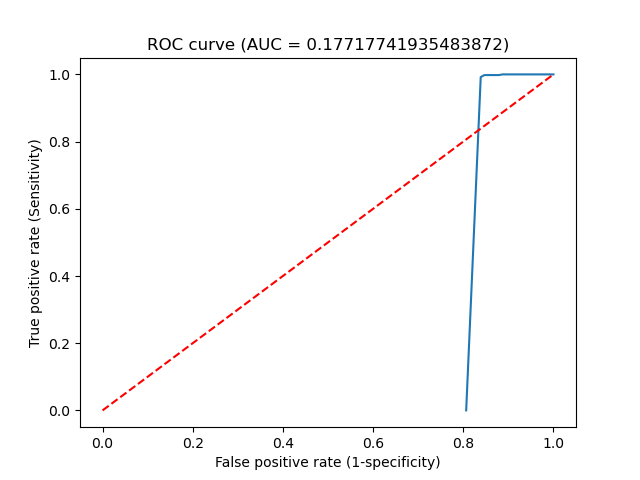
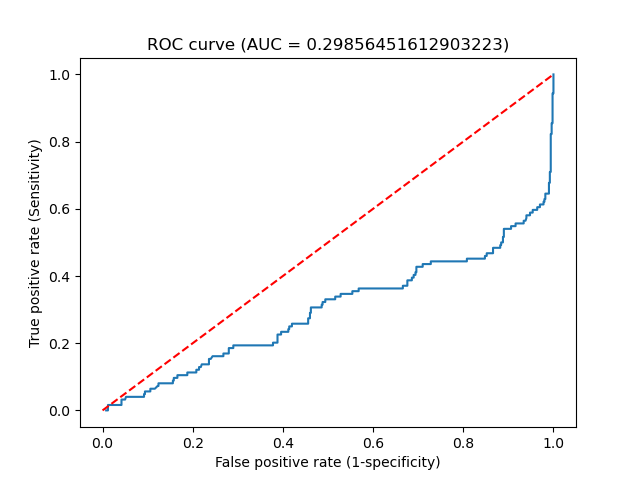
Corrected AUC calculation and implemented the new code

diff --git a/assignment3/ex1_1.py b/assignment3/ex1_1.py
@@ -13,13 +13,12 @@ def run_negative_selection(training_file, n, r, testing_data):
     p.stdin.write(in_data)
     return [float(s) for s in p.communicate()[0].decode().splitlines()]
 
-def get_AUC_from_anomalities(data: list, savename = 'temp.png'):
+def get_AUC_from_anomalies(data: list, savename = 'temp.png'):
     """
     :param data: list of tuples (label, word, score)
     :param savename: name to save to plot as
     :return: AUC
     """
-
     sorted_data = sorted(data, key=lambda x: x[2])
     l = len(sorted_data)
 
@@ -29,27 +28,25 @@ def get_AUC_from_anomalities(data: list, savename = 'temp.png'):
     prev_score = sorted_data[0][2]
     for i, d in enumerate(sorted_data):
         (_, _, score) = d
-        print("score", score)
-        print("prev_sccore", prev_score)
         if prev_score != score:
             distinct_scores.append((prev_i, i))
             prev_i = i
             prev_score = score
     distinct_scores.append((prev_i, l))
 
-    # get amount of normal / abnormal scores
-    l_anom = len([w for (l, w, s) in sorted_data if not l])
-    l_norm = len([w for (l, w, s) in sorted_data if l])
-
     sensitivities = []
     specificities = []
     for i, j in distinct_scores:
         score = sorted_data[i][2]
-        sensitivity = len([w for (l, w, s) in sorted_data if s > score and not l])
-        specificity = len([w for (l, w, s) in sorted_data if s < score and l])
+        TP = len([w for (l, w, s) in sorted_data if s >= score and l])
+        FP = len([w for (l, w, s) in sorted_data if s >= score and not l])
+        TN = len([w for (l, w, s) in sorted_data if s < score and not l])
+        FN = len([w for (l, w, s) in sorted_data if s < score and l])
+        TPR = TP / (TP+FN)
+        TNR = TN / (TN + FP)
 
-        sensitivities.append(sensitivity / l_anom)
-        specificities.append(specificity / l_norm)
+        sensitivities.append(TPR)
+        specificities.append(TNR)
 
     #calculate AUC and make plots
     inverse_spec = np.ones_like(specificities) - specificities
@@ -72,7 +69,7 @@ if __name__ == '__main__':
     n = 10
     r = 4
 
-    for r in list(range(2,7)):
+    for r in list(range(287)):
         testing_english_words = None
         testing_english_labels = None
         testing_english_scores = None
@@ -98,5 +95,5 @@ if __name__ == '__main__':
             english_data = list(zip(testing_english_labels, testing_english_words, testing_english_scores))
             tagalog_data = list(zip(testing_tagalog_labels, testing_tagalog_words, testing_tagalog_scores))
 
-            auc = get_AUC_from_anomalities(english_data + tagalog_data)
+            auc = get_AUC_from_anomalies(english_data + tagalog_data)
             print("The ({}) AUC for R {} is {}".format(lan, r, auc))

diff --git a/assignment3/ex2_1.py b/assignment3/ex2_1.py
@@ -73,19 +73,19 @@ def get_AUC_from_anomalies(data: list, savename = 'temp.png'):
             prev_score = score
     distinct_scores.append((prev_i, l))
 
-    # get amount of normal / abnormal scores
-    l_anom = len([w for (l, w, s) in sorted_data if not l])
-    l_norm = len([w for (l, w, s) in sorted_data if l])
-
     sensitivities = []
     specificities = []
     for i, j in distinct_scores:
         score = sorted_data[i][2]
-        sensitivity = len([w for (l, w, s) in sorted_data if s >= score and not l])
-        specificity = len([w for (l, w, s) in sorted_data if s < score and l])
+        TP = len([w for (l, w, s) in sorted_data if s >= score and l])
+        FP = len([w for (l, w, s) in sorted_data if s >= score and not l])
+        TN = len([w for (l, w, s) in sorted_data if s < score and not l])
+        FN = len([w for (l, w, s) in sorted_data if s < score and l])
+        TPR = TP / (TP + FN)
+        TNR = TN / (TN + FP)
 
-        sensitivities.append(sensitivity / l_anom)
-        specificities.append(specificity / l_norm)
+        sensitivities.append(TPR)
+        specificities.append(TNR)
 
     # calculate AUC and make plots
     inverse_spec = np.ones_like(specificities) - specificities
@@ -99,6 +99,12 @@ def get_AUC_from_anomalies(data: list, savename = 'temp.png'):
     plt.title(f'ROC curve (AUC = {auc})')
     plt.savefig(savename)
     plt.close()
+
+    labels = np.array([d[0] for d in data])
+    scores = np.array([d[2] for d in data])
+    auc_metrics = metrics.roc_auc_score(labels, scores)
+    print(f"auc delta: {auc - auc_metrics}")
+    print("=========================")
 
     return auc
 
